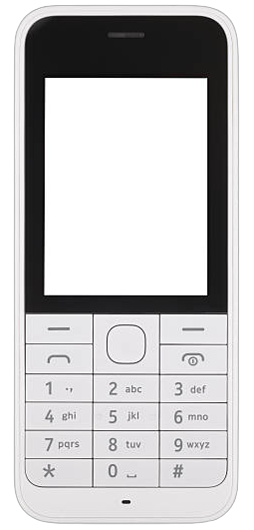
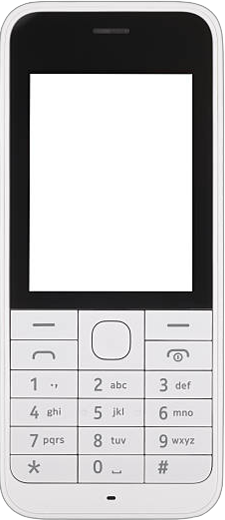
optimised

Changed region(s): [[0.0, 0.0, 0.9956, 1.0]]

diff --git a/src/components/Main.jsx b/src/components/Main.jsx
@@ -52,10 +52,11 @@ const Mainfile = () => {
         console.log(error);
       })
     }
+    
   
     return (
       
-      <div className="main-container container mx-auto  flex flex-col">
+      <div className="main-container container mx-auto  flex flex-col h-full">
       <div className="p-2 ">
         <div className='bg-slate-200 inline-block px-2'>
         <h1 className="bg-gradient-to-r from-blue-500 to-purple-500 text-transparent bg-clip-text text-left font-bold text-base ">56765 MTN</h1></div>
@@ -79,7 +80,7 @@ const Mainfile = () => {
           )}
         </div>
       </div>
-      <form onSubmit={handleSubmit} className="flex-none pt-2 type-section">
+      <form onSubmit={handleSubmit} className="flex-none pt-2 pb-2 type-section">
         <div className=" w-full pt-0 px-1 ">
           <div className="flex rounded-lg border border-gray-700 ">
             <input

diff --git a/src/styles/globals.css b/src/styles/globals.css
@@ -6,7 +6,7 @@
 /* Style the chat-section container */
 .chat-section {
   overflow-y: scroll;
-  height: 180px;
+  /* height: 180px; */
 
     /* Customize the scrollbar */
     scrollbar-width: thin;
@@ -35,16 +35,18 @@
   }
   .inner-c{
     position: absolute;
-    top: 86px;
+    top: 10%;
     right: 152px;
-    width: 190px;
+    width: 72%;
+    height: 47%;
+
  
     background-color: white;
     left: 50%;
     transform: translateX(-50%);
   }
 
-
+/* 
   @media screen and (max-width:400px){
     .chat-section {
       height: 180px;
@@ -63,4 +65,11 @@
       height: 215px;
     }
     
-  }
+  } */
+
+  /* @media screen and (min-width:1400px){
+    .inner-c {
+      top: 66px;
+    }
+  } */
+ 

diff --git a/src/pages/api/chat.js b/src/pages/api/chat.js
@@ -6,10 +6,10 @@ export default async function handler(req, res) {
 
   if (req.method !== 'POST') {
     res.status(405).json({ message: 'Method should be POST' });
-  } else if (process.env.NODE_ENV !== "development") {
-    if (!referer || referer !== process.env.APP_URL) {
-      res.status(401).json({ message: 'Unauthorized' });
-    }
+  // } else if (process.env.NODE_ENV !== "development") {
+  //   if (!referer || referer !== process.env.APP_URL) {
+  //     res.status(401).json({ message: 'Unauthorized' });
+  //   }
   }
   else {
     try {

diff --git a/src/components/Phone.jsx b/src/components/Phone.jsx
@@ -8,9 +8,9 @@ const Phone = () => {
       className="w-full flex place-content-center h-screen relative p-4"
       style={{ color: "red" }}
     >
-      <div className="flex place-content-center">
+      <div className="flex place-content-center relative">
         <Image className=" h-[100%] w-[90%]" src={phone} alt="phone" />
-        <div className="inner-c md:h-[44%]    h-[44%] lg:h-[44%] lg:w-[200px] xl:w-[210px] ">
+        <div className="inner-c  ">
 <Mainfile/>
 
 
